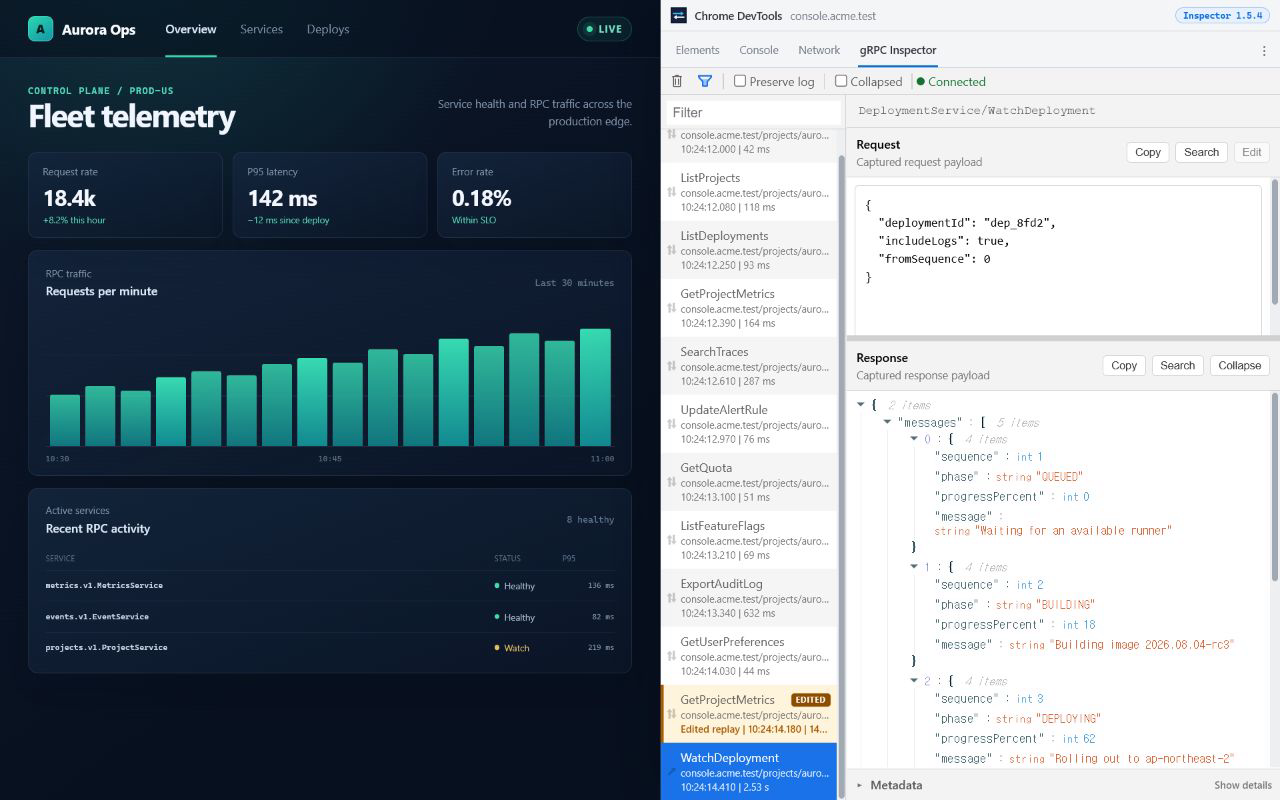
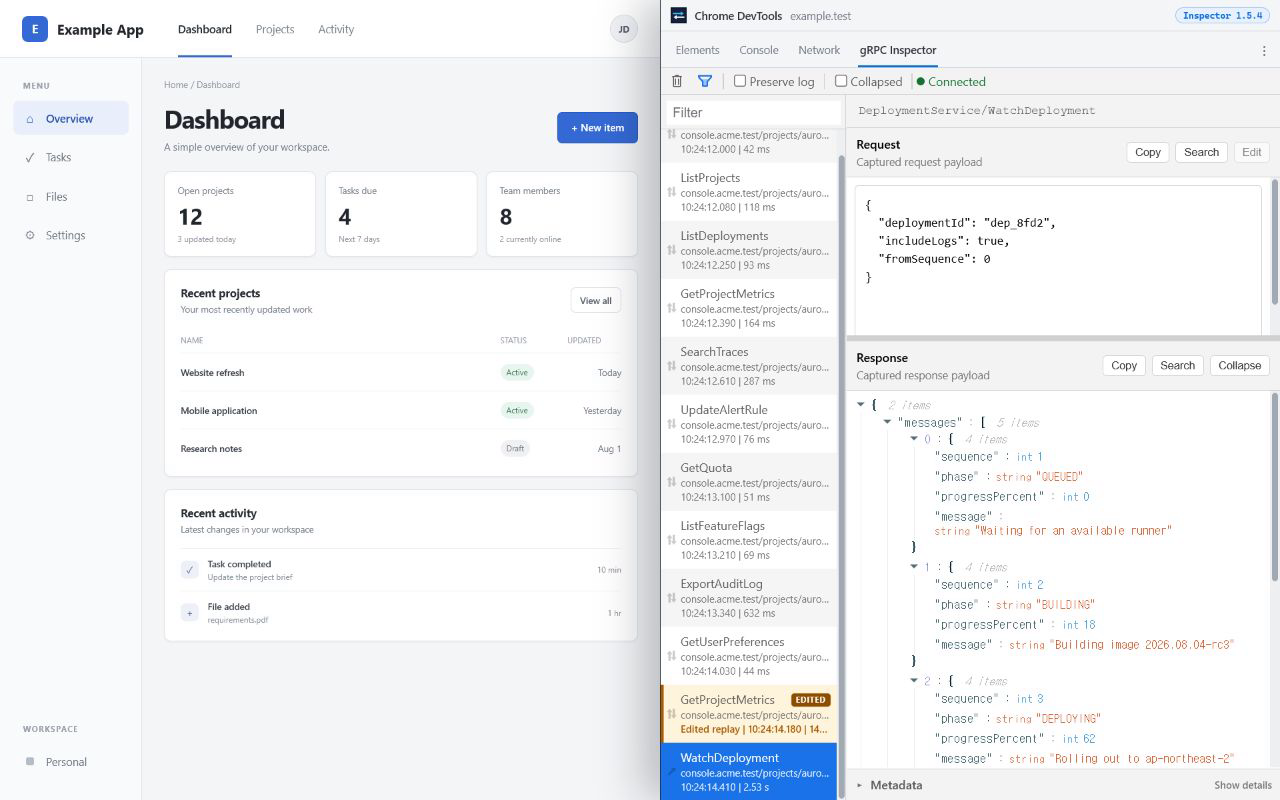
Use neutral context in store screenshots

diff --git a/store-listing/screenshot-plan.md b/store-listing/screenshot-plan.md
@@ -1,6 +1,6 @@
 # Screenshot plan
 
-All screenshots are store-compliant 1280 × 800 PNGs, full bleed, with square corners. Each image shows the inspector at a realistic 620 × 800 right-docked DevTools width beside a fictional 660 × 800 application. The UI is populated with deterministic fictional data; no credentials, tokens, or production endpoints are shown.
+All screenshots are store-compliant 1280 × 800 PNGs, full bleed, with square corners. Each image shows the inspector at a realistic 620 × 800 right-docked DevTools width beside a neutral 660 × 800 example application. Metadata details remain collapsed so the request and response payloads have more usable space. The UI is populated with deterministic fictional data; no credentials, tokens, or production endpoints are shown.
 
 ## 01 — Inspect every RPC at a glance
 
@@ -18,13 +18,13 @@ All screenshots are store-compliant 1280 × 800 PNGs, full bleed, with square co
 - UI state: request editor open; safety note visible; Format, Reset, Cancel, and Send request controls visible.
 - Evidence: editor state and replay controls from the current product.
 
-## 03 — Diagnose the full request lifecycle
+## 03 — Inspect complete server responses
 
-- File: `screenshots/03-lifecycle-metadata.png`
-- Store caption: **Diagnose the full request lifecycle**
-- Supporting line: See frame and backend URLs, start and completion times, duration, TTFM, and message count.
-- UI state: metadata expanded for a completed server stream.
-- Evidence: current metadata fields, streaming status, and timing values.
+- File: `screenshots/03-response-details.png`
+- Store caption: **Inspect complete server responses**
+- Supporting line: Expand structured response data and review every retained value without leaving DevTools.
+- UI state: completed `SearchTraces` unary call selected; Metadata details collapsed.
+- Evidence: structured response payload, nested trace values, and completed unary call.
 
 ## 04 — Follow server streams message by message
 

diff --git a/store-listing/README.md b/store-listing/README.md
@@ -12,7 +12,7 @@ Use these files to update the Chrome Web Store listing:
 
 1. Overview — inspect request and response JSON
 2. Edit and replay — review JSON before sending
-3. Lifecycle metadata — URLs, duration, TTFM, count, and transport
+3. Response details — complete structured server response
 4. Stream messages — protobuf-ts server-streaming history
 5. Dark edited replay — Edited badge and replay provenance
 
